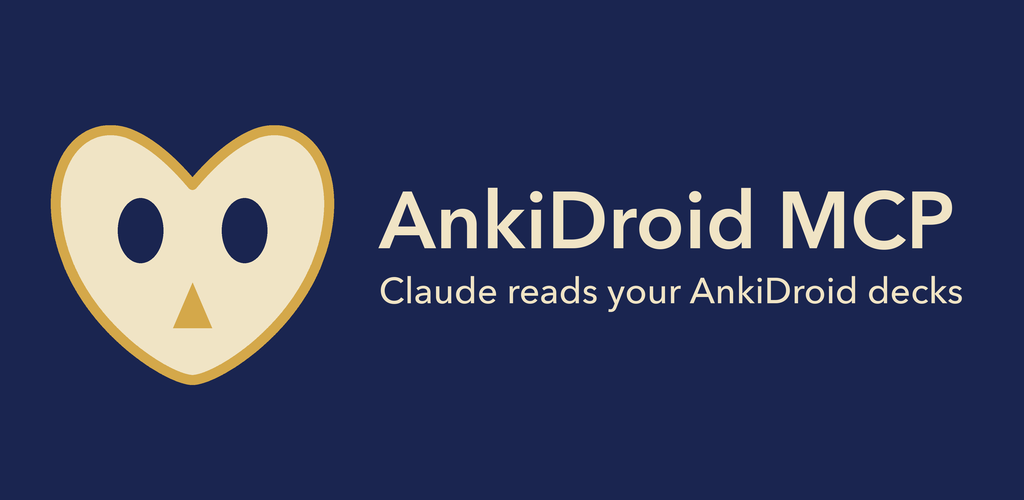
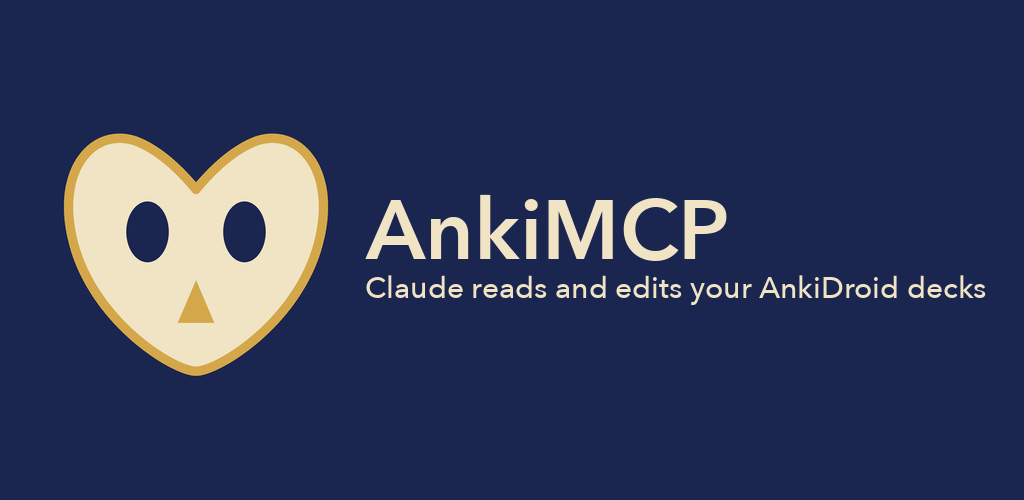
docs: Play listing graphics for the Remote/Local Status screens
New feature graphic (plus an owl variant), four screenshots (Remote, Local,
Battery, About) replacing the three Status/Log/About ones, listing tweak.

diff --git a/distribution/play/listing.md b/distribution/play/listing.md
@@ -63,7 +63,7 @@ Open the Log tab and tap Share log. The shared text includes the app version, An
 Open source
 AnkiMCP is free software under the GNU AGPL-3.0. Source code: https://github.com/ankimcp/ankidroid-mcp
 
-AnkiMCP for AnkiDroid is made by the AnkiMCP project and is not affiliated with or endorsed by AnkiDroid, Anki or Anthropic. Claude is a trademark of Anthropic.
+AnkiMCP is not affiliated with or endorsed by AnkiDroid, Anki or Anthropic. Claude is a trademark of Anthropic.
 ```
 
 ## Store settings
